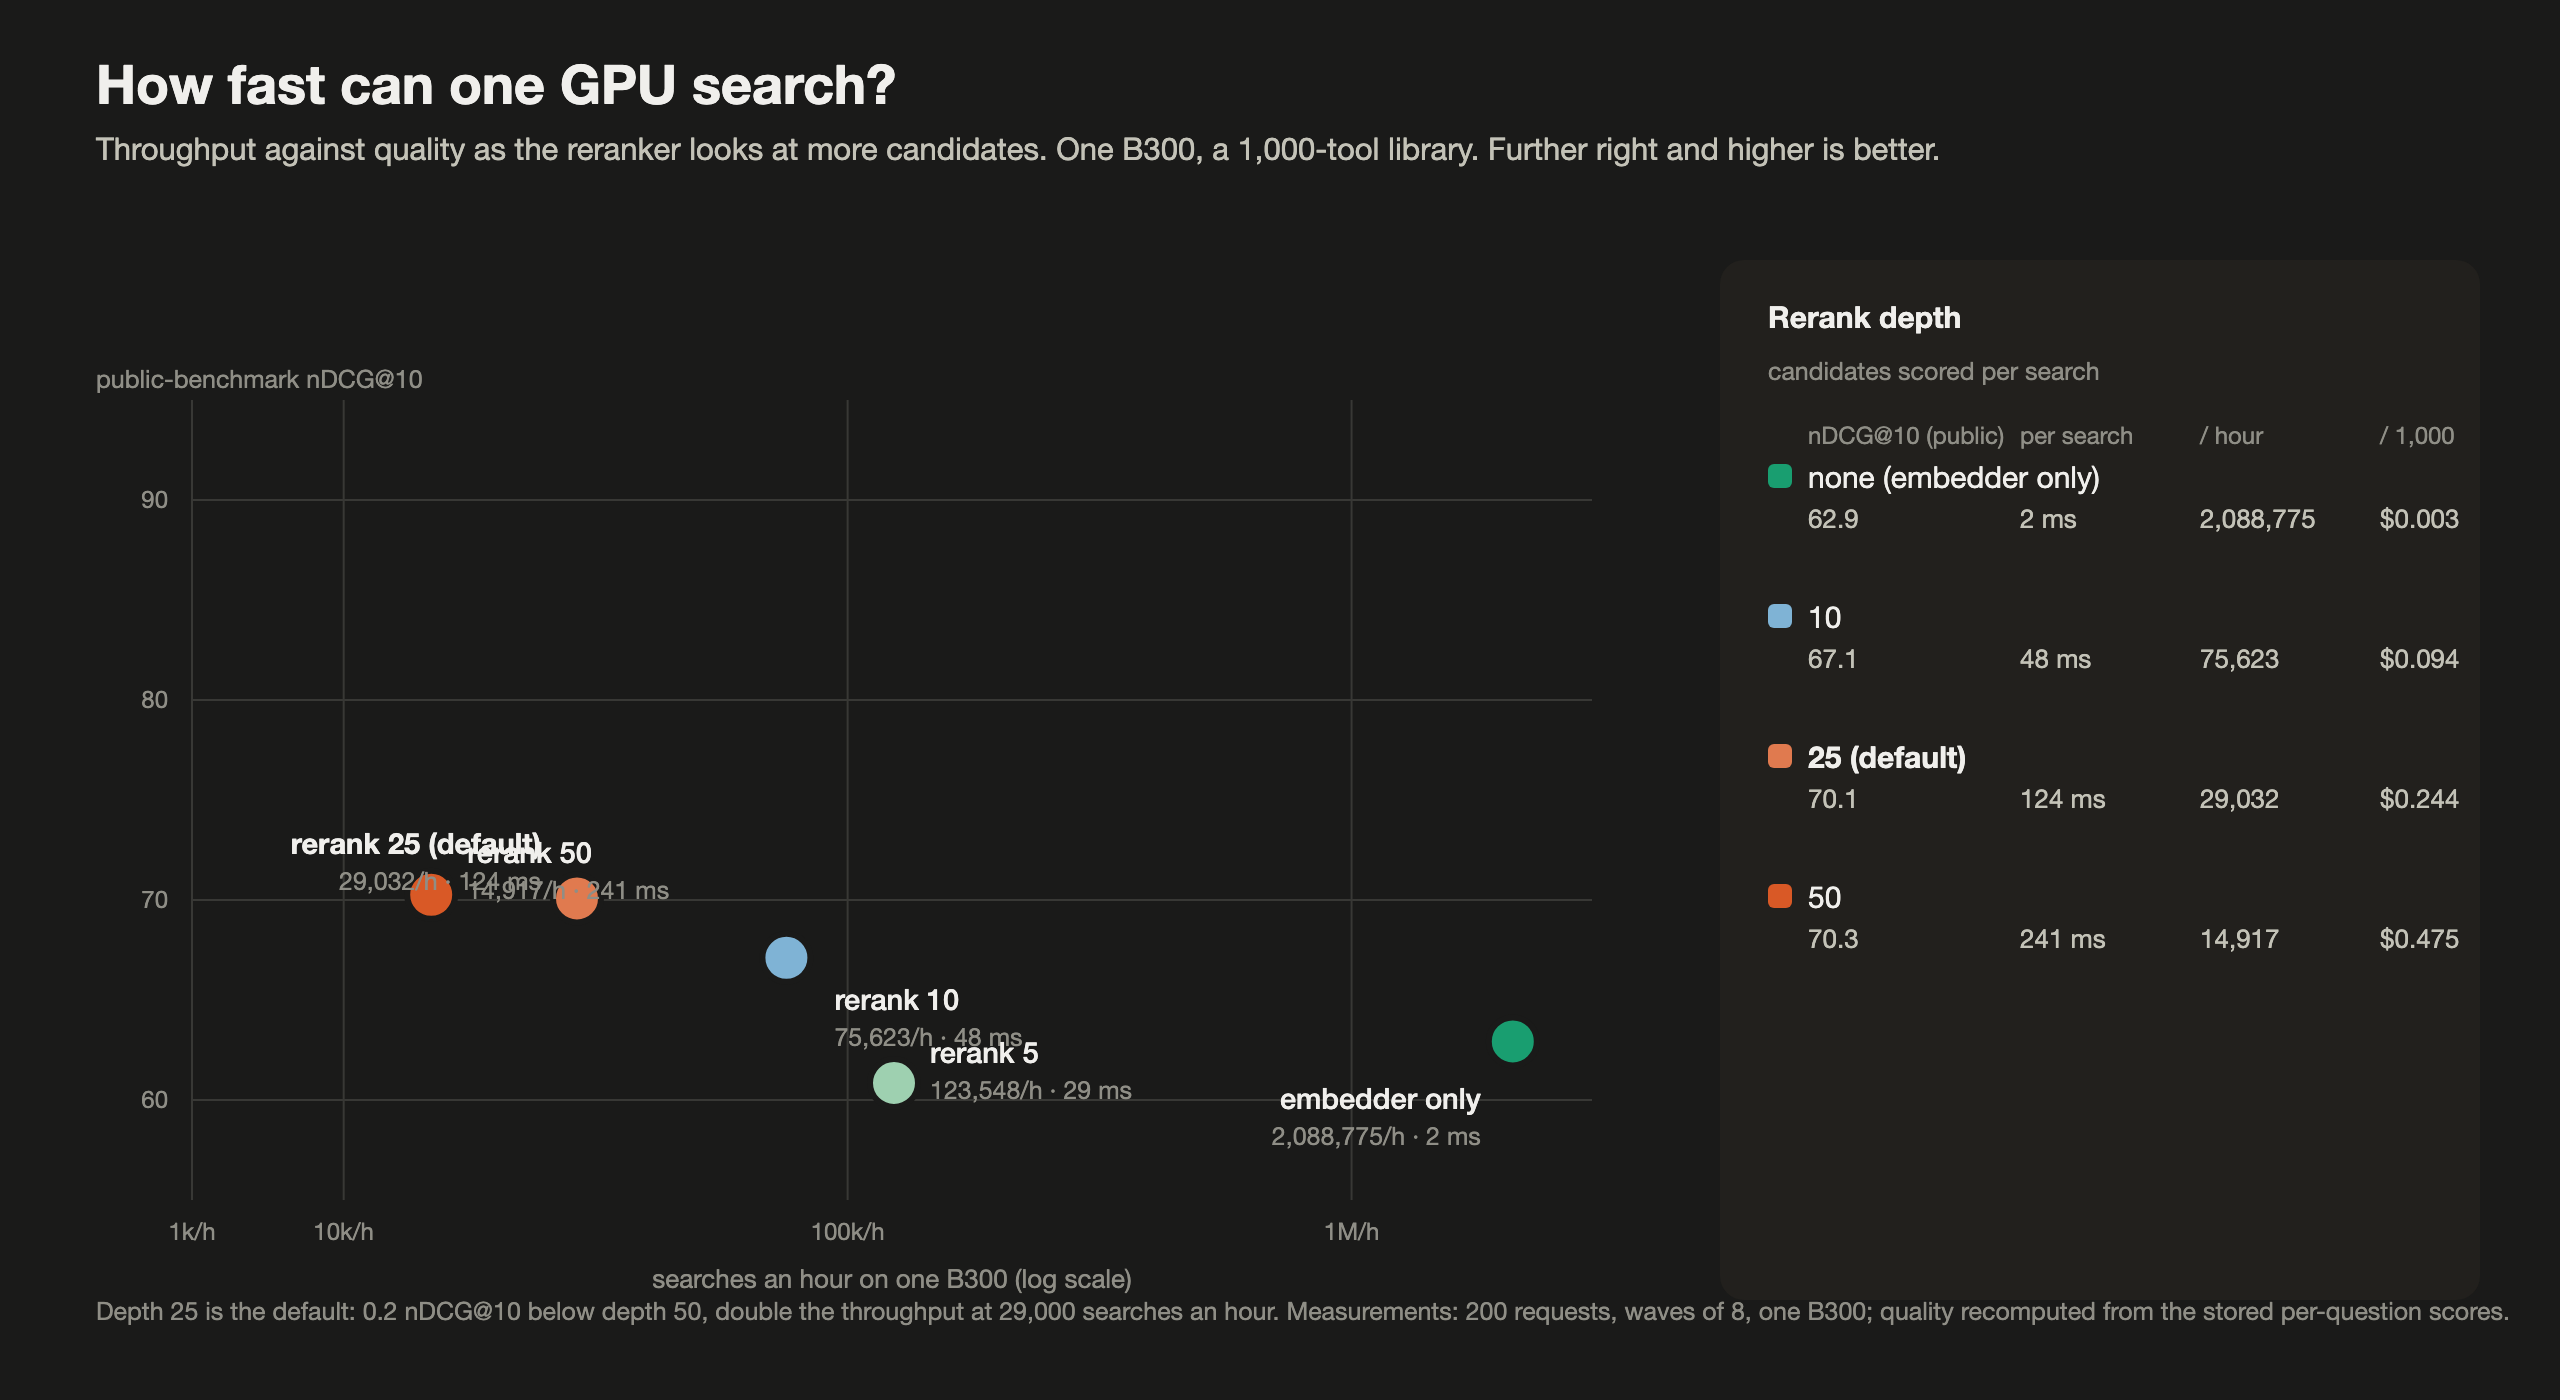
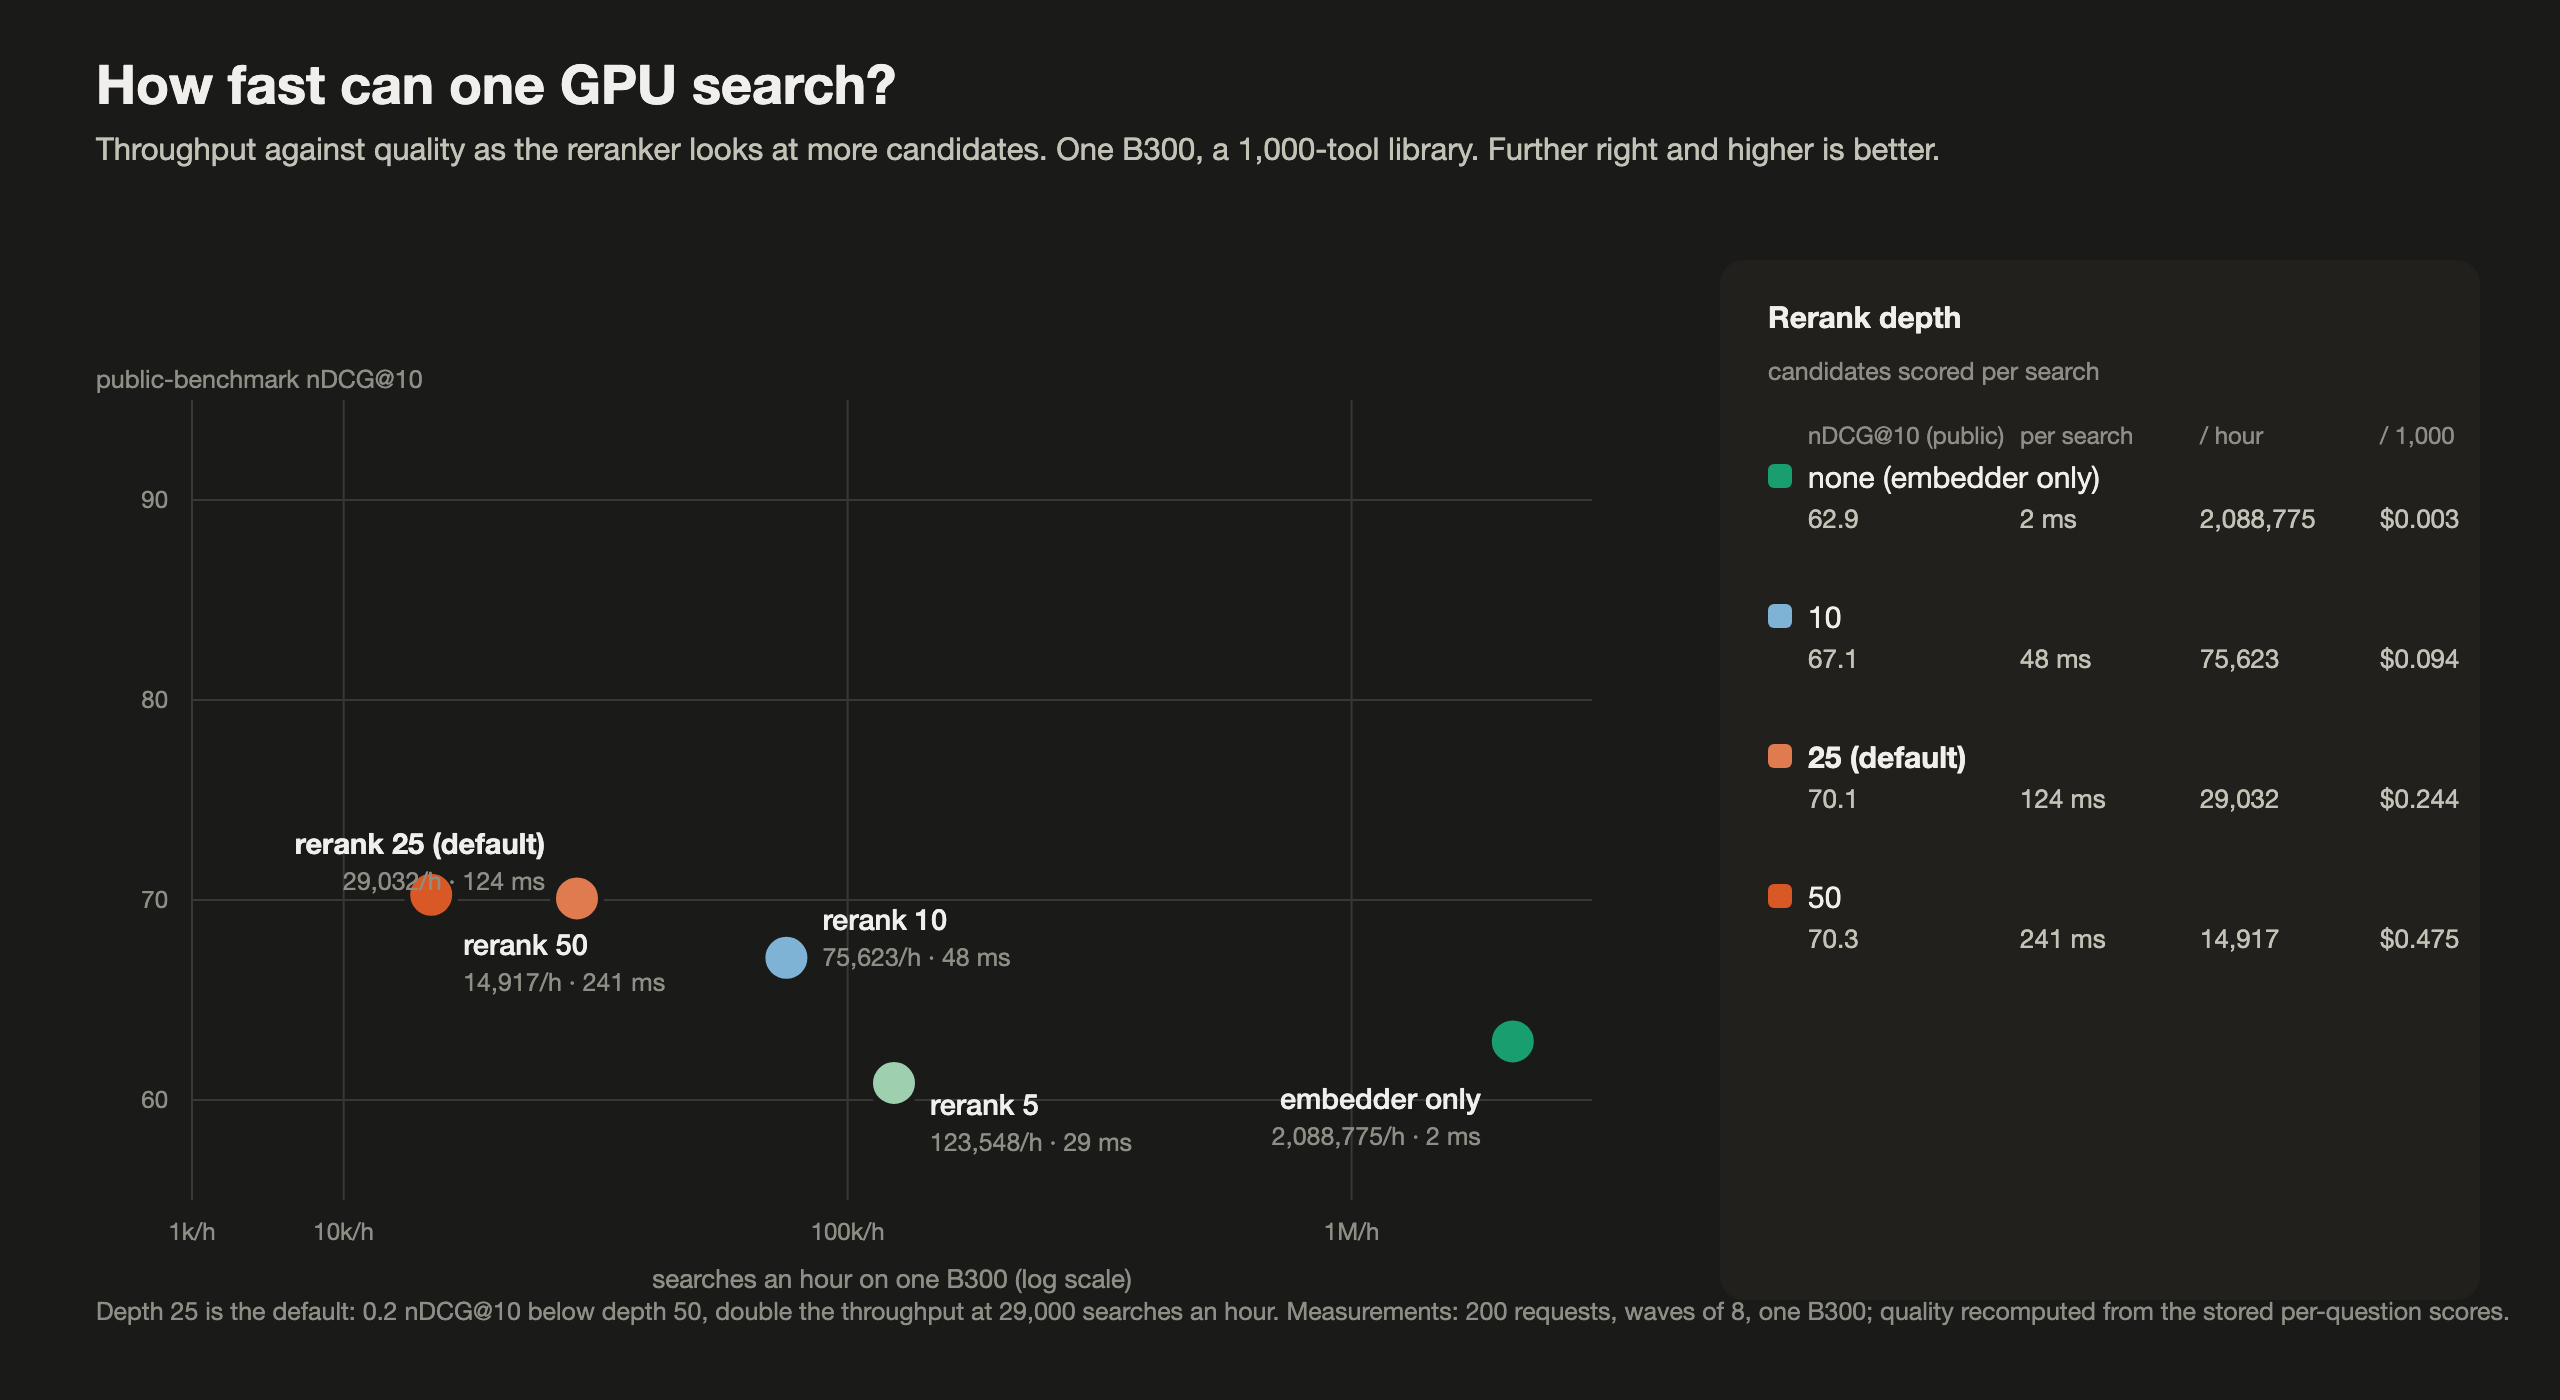
Scale figure: separate the four close labels

Changed region(s): [[0.3125, 0.645, 0.4375, 0.8293], [0.125, 0.5836, 0.25, 0.7064]]

diff --git a/scripts/make_scale_figure.py b/scripts/make_scale_figure.py
@@ -37,7 +37,7 @@ for p in pts:
     cx, cy = X(p["searches_per_hour"]), Y(p["quality_public"])
     d = str(p["rerank_depth"])
     body += f'<circle cx="{cx:.1f}" cy="{cy:.1f}" r="12" fill="{HUE[d]}" stroke="{BG}" stroke-width="3"/>'
-labels = {0: (-16, 34, "end"), 5: (18, -10, "start"), 10: (24, 26, "start"), 25: (-18, -22, "end"), 50: (18, -16, "start")}
+labels = {0: (-16, 34, "end"), 5: (18, 16, "start"), 10: (18, -14, "start"), 25: (-16, -22, "end"), 50: (16, 30, "start")}
 for p in pts:
     cx, cy = X(p["searches_per_hour"]), Y(p["quality_public"])
     dx, dy, anc = labels[p["rerank_depth"]]
